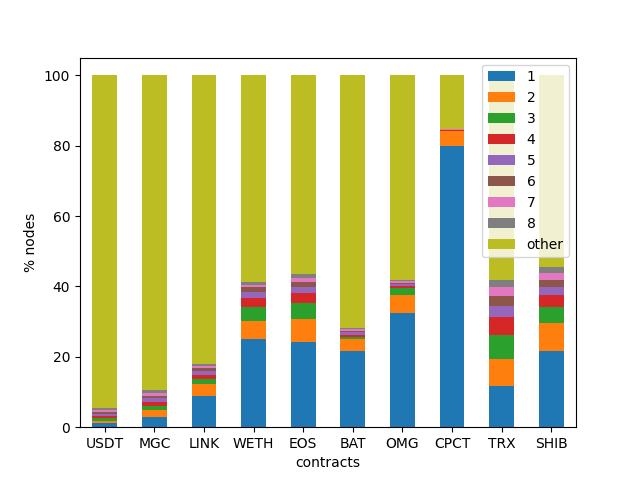
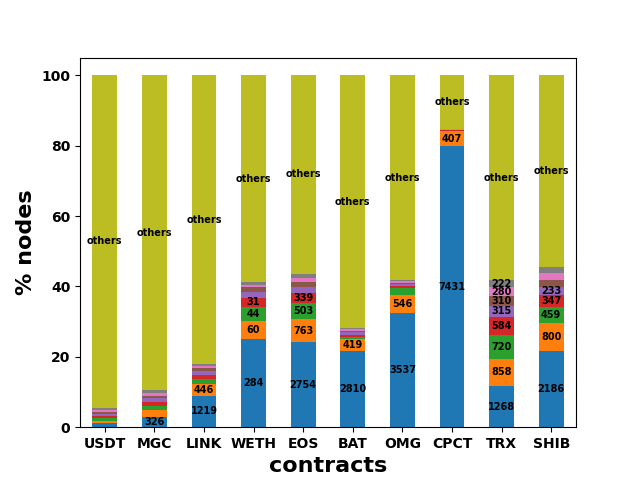
add size label

diff --git a/istog_size_comp.py b/istog_size_comp.py
@@ -8,7 +8,7 @@ cname = {1:"USDT", 2:"MGC", 3:"LINK", 4:"WETH", 5:"EOS", 6:"BAT", 7:"OMG", 8:"CP
 
 list_patch = []
 z=0
-labels = []
+labels = [[],[],[],[],[],[],[],[],[]]
 ndf = pd.DataFrame(columns=['contracts','1','2','3','4','5','6','7','8','other'])
 for color,n in zip(mcolors.TABLEAU_COLORS,range(1,11)):
     fname = "./edgelist/edgelist_"+str(n)+".csv"
@@ -51,28 +51,40 @@ for color,n in zip(mcolors.TABLEAU_COLORS,range(1,11)):
     ndf.loc[z] = row
     z=z+1
 
-    ksizes.append('others')
-    labels.append(ksizes[::-1])
+    print(ksizes)
+    w=0
+    for w in range(8):
+        labels[w].append(ksizes[w])
+    labels[8].append('others')
 
 print(tot_nodi)
 print(ndf)
 ax = ndf.plot(x='contracts',ylabel="% nodes",kind='bar',stacked=True,mark_right=False,rot='horizontal')
 
-n=0
-#print(labels)
+print(labels)
 #for c in ax.containers:
     
-     # customize the label to account for cases when there might not be a bar section
-#    t = 0
-#    lbl = labels[n]
-#    print(lbl)
-#    for v in c:
-#        if (w := v.get_width()) < 4: 
-#            if (lbl[t] != 'others'): lbl.pop(t)
-#    t=t+1
-    #print(lbl)
-    #ax.bar_label(c, label_type='center',fontsize=7, labels=lbl)
-#    n=n+1
+# customize the label to account for cases when there might not be a bar section
+n=0
+for c in ax.containers:
+    lbl = labels[n]
+    t = 0
+    print(lbl)
+    for v in c:
+        print(t)
+        if ((w := v.get_height()) < 2) and (lbl[t] != 'others'): 
+            lbl[t]=''
+        t=t+1
+        print(lbl)
+    ax.bar_label(c, label_type='center',fontsize=7, labels=lbl, weight='bold')
+    n=n+1
+
+plt.rcParams.update({'font.size': 22,'font.weight' : 'bold'})
+plt.xticks(fontsize=10,weight='bold')
+plt.yticks(fontsize=10,weight='bold')
+plt.ylabel('% nodes', fontsize=16,weight='bold')
+plt.xlabel('contracts',fontsize=16,weight='bold')
+ax.get_legend().remove()
 
 plt.savefig('./risultati_analisi/istog_size_comp.png')
 
